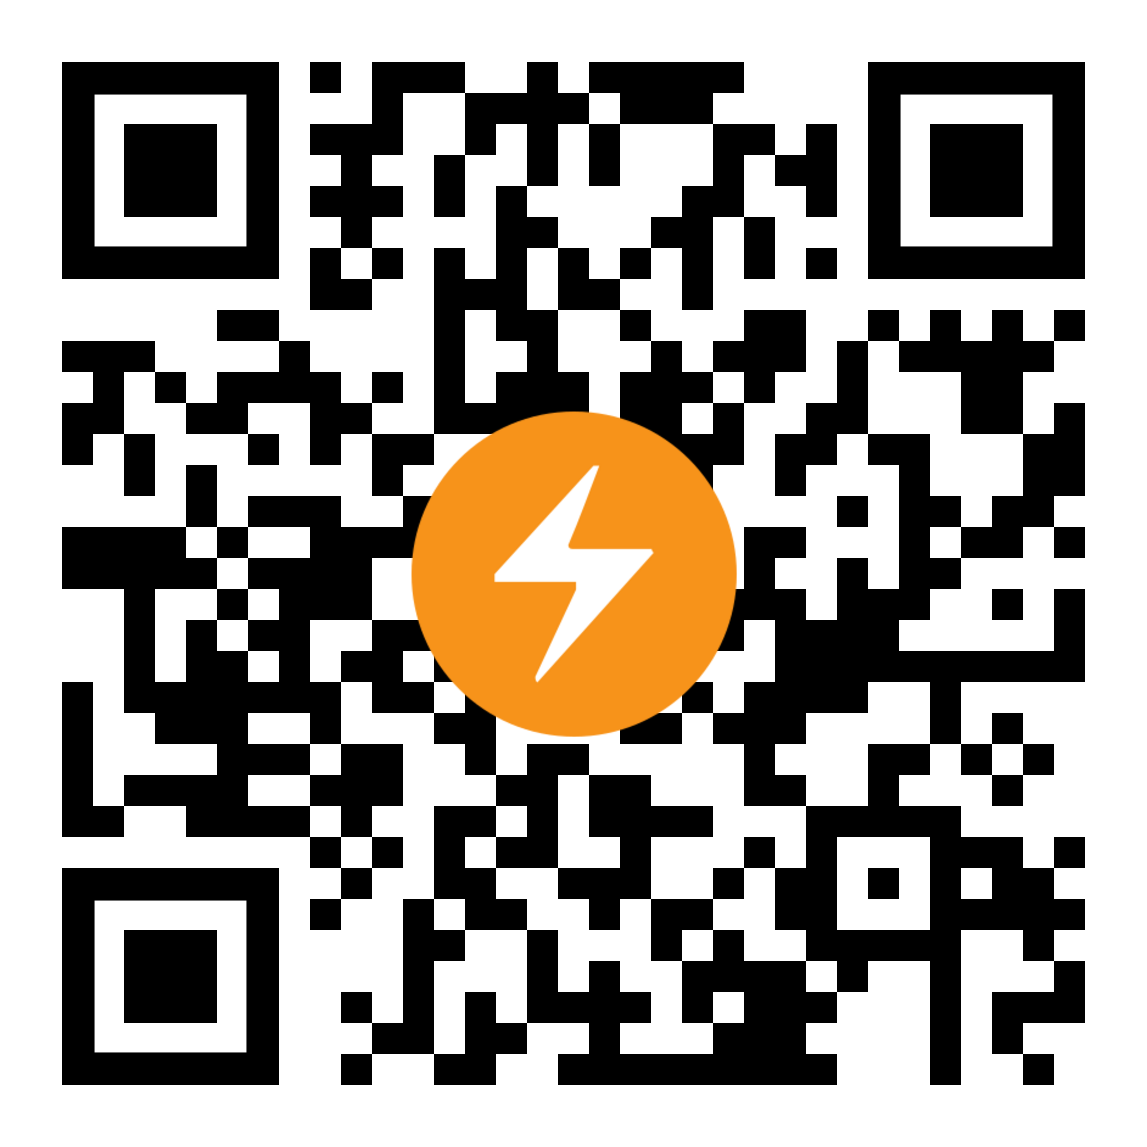
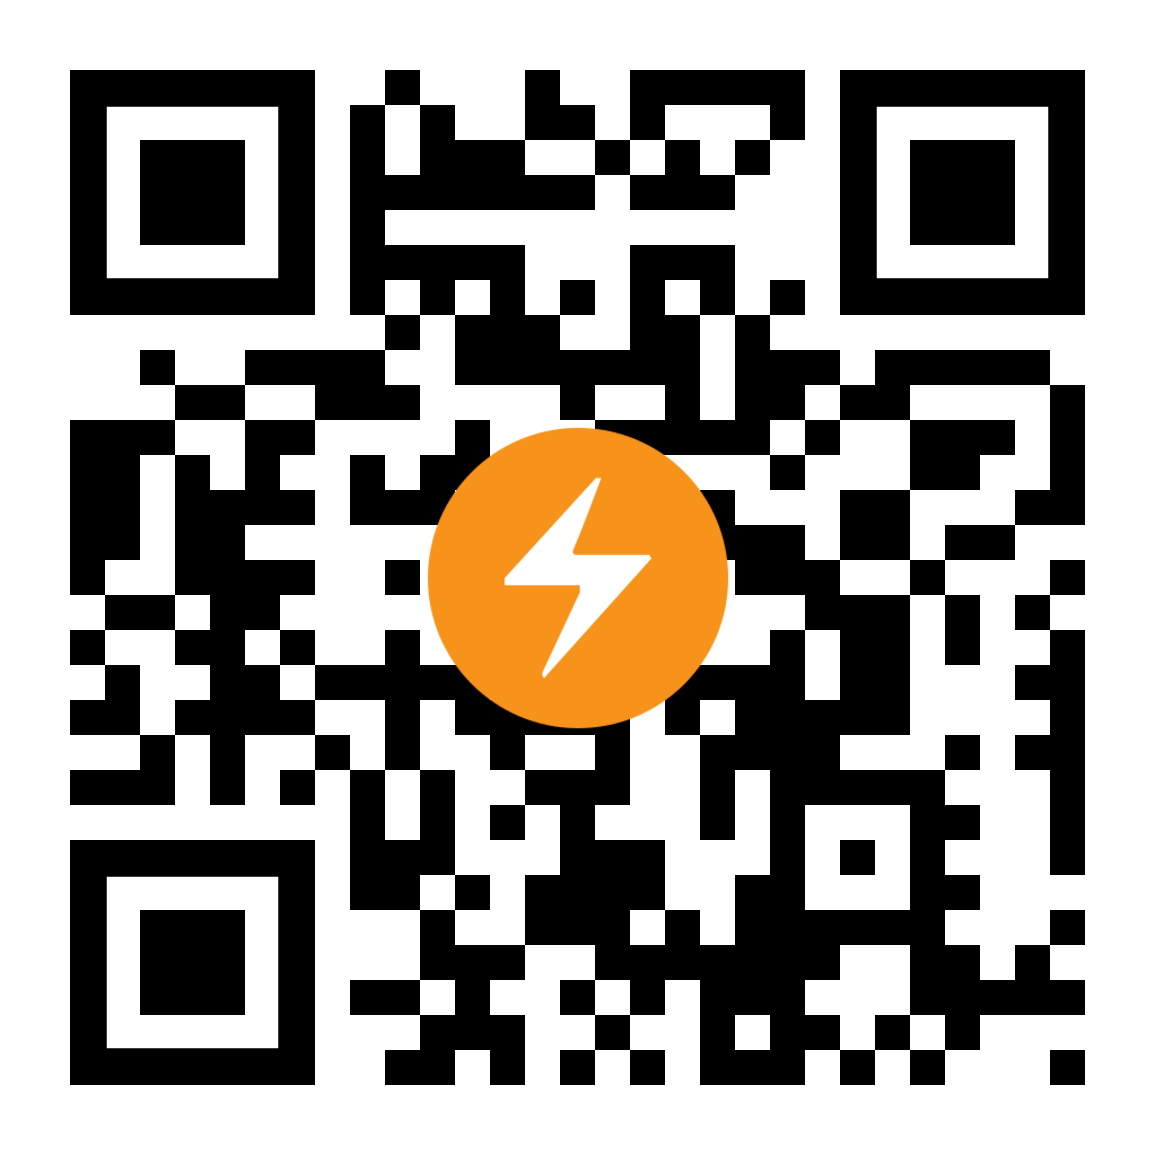
updated btc stuff

diff --git a/src/main.js b/src/main.js
@@ -62,10 +62,10 @@ document.addEventListener('DOMContentLoaded', () => {
   const qrData = [
[2 lines of base64/hex data omitted]
-    { img: 'assets/lbtc-qr.png', alt: 'lbtc-qr', code: 'snazzyrub305@walletofsatoshi.com' },
+    { img: 'assets/lbtc-qr.png', alt: 'lbtc-qr', code: 'roguehashrate@strike.me' },
     { img: 'assets/dash-qr.png', alt: 'dash-qr', code: 'XvZyhMJ9Rh77XwnsuRgtNwqs5BbcVGxCRC' },
     { img: 'assets/bch-qr.png', alt: 'bch-qr', code: 'bitcoincash:qz7kmyt4q8wwtggnwcj64n6m56wj5rq06uqx9yqwz4' },
-    { img: 'assets/btc-qr.png', alt: 'btc-qr', code: 'bc1pgq3wmypl2tr0hl4p89csd4z4uh5dewhz62uu0e6ad5yfz68qgdmqql0twl'}
+    { img: 'assets/btc-qr.png', alt: 'btc-qr', code: 'bc1qevwqcm0y8yp9876flasm625tqf3g4dagxmd2k6'}
 
 
   ];
